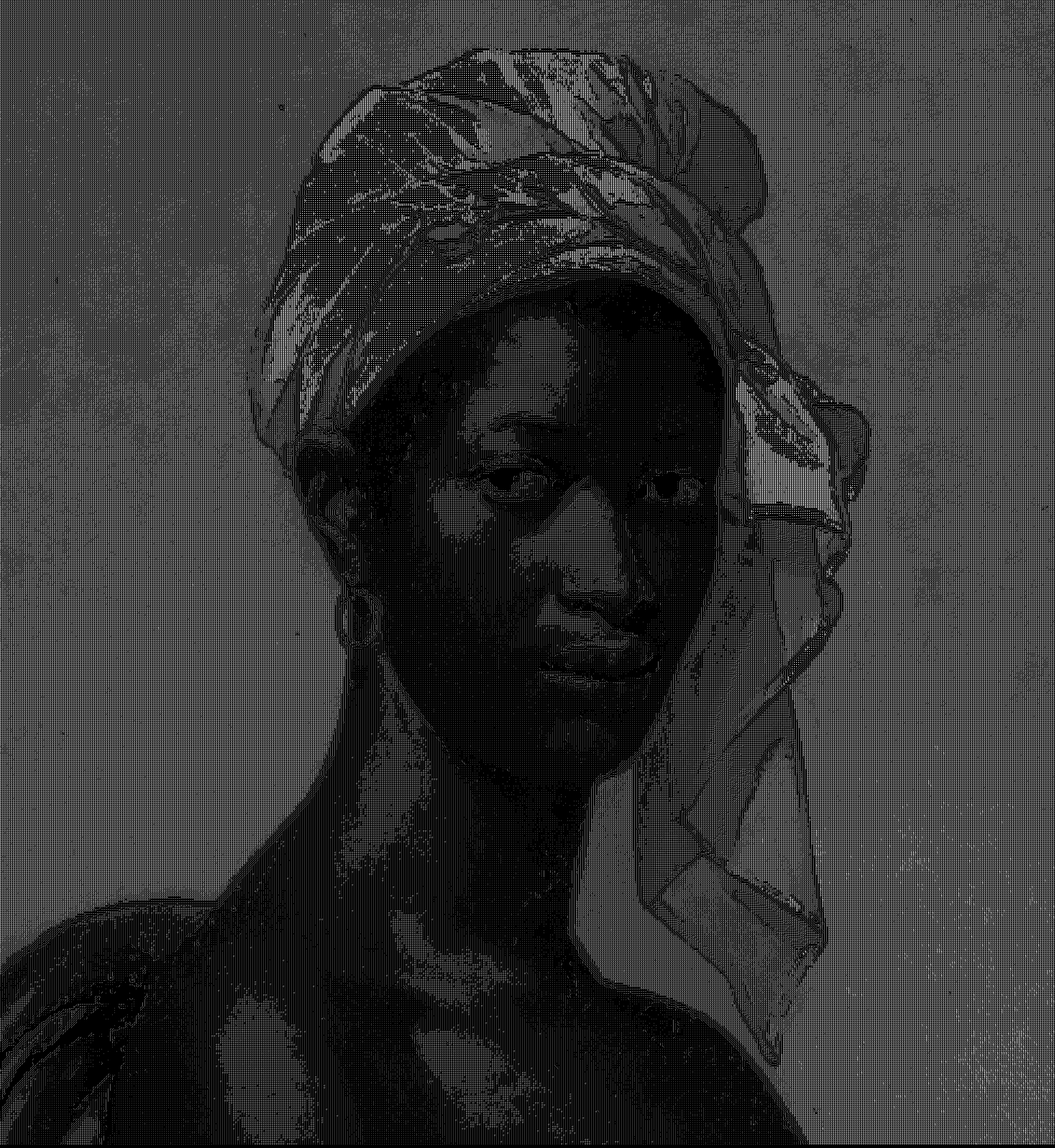
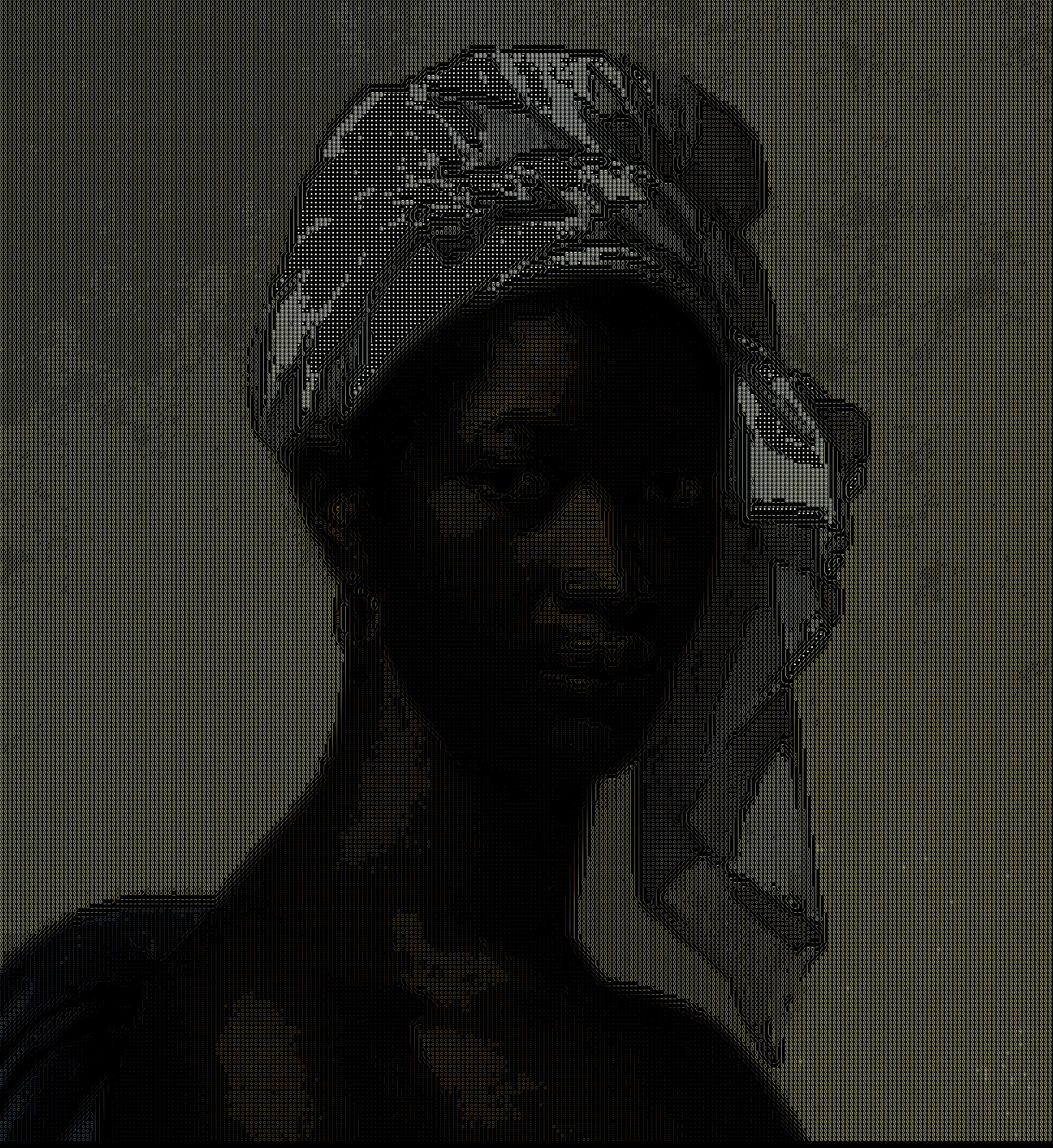
FINISHED PACKAGING!

diff --git a/ascii_img/main.go b/ascii_img/main.go
@@ -10,19 +10,15 @@ import (
 	"log"
 	"os"
 	"strings"
-	"time"
 
 	transforms "github.com/RohanPalivela/ascii_image_manip/transforms"
 	"github.com/golang/freetype"
 )
 
-// Place your image/video into the "images/" directory. Provide the filename (ex: "hi.png" with no images/) into this function.
-func Initialize(filename string, sample_size int, px_size int) [][]transforms.Pixel {
+// Place your image (future: supporting video) into the "images/" directory. Provide the filename (ex: "hi.png" with no images/) into this function. A sample size N averages every NxN space, downscaling the image by Nx.
+func Initialize(filename string, sample_size int) [][]transforms.Pixel {
 	// file_name := "portrait.jpg"
 	img_file := "Images/" + filename
-
-	fmt.Println("** BEGINNING OPERATIONS **")
-	start := time.Now()
 
 	var img image.Image
 	var bounds image.Rectangle
@@ -34,9 +30,6 @@ func Initialize(filename string, sample_size int, px_size int) [][]transforms.Pi
 		img, bounds = OpenJPEGImg(img_file)
 	}
 
-	LogOut(fmt.Sprintf("LOGGING >> Took %s to open image", time.Since(start)))
-	intermediate := time.Now()
-
 	width := bounds.Dx()
 	height := bounds.Dy()
 
@@ -47,84 +40,19 @@ func Initialize(filename string, sample_size int, px_size int) [][]transforms.Pi
 	fmt.Printf("Info: Shrinking to: %v x %v\n\n", pix_width, pix_height)
 
 	arr := InitializeArray(img, sample_size, pix_height, pix_width)
-
-	LogOut(fmt.Sprintf("LOGGING >> Took %s to make and propagate pixel info", time.Since(intermediate)))
-	intermediate = time.Now()
 
 	return arr
 }
 
-func OutputImage(arr [][]transforms.Pixel) {
-
-}
-
-func main() {
-	// CONSTANTS FOR PROGRAM
-	file_name := "portrait.jpg"
-	img_file := "Images/" + file_name
-
-	// IMPORTANT FOR IMAGE SIZES ************
-	// keeping these the same value yields an image of ~ same size
-	// for any image > 1920x1080, keep at 8x8, otherwise probably go down
-	sample_size := 4
-	px_size := 4
-
-	fmt.Println("** BEGINNING OPERATIONS **")
-	start := time.Now()
-
-	var img image.Image
-	var bounds image.Rectangle
-
-	switch img_file[strings.Index(img_file, "."):] {
-	case ".png":
-		img, bounds = OpenPNGImg(img_file)
-	case ".jpeg", ".jpg":
-		img, bounds = OpenJPEGImg(img_file)
-	}
-
-	LogOut(fmt.Sprintf("LOGGING >> Took %s to open image", time.Since(start)))
-	intermediate := time.Now()
-
-	operations := time.Now()
-
-	width := bounds.Dx()
-	height := bounds.Dy()
-
-	fmt.Printf("Info: Original Dimensions: %v x %v\n", width, height)
-
-	pix_width := width / sample_size
-	pix_height := height / sample_size
-	fmt.Printf("Info: Shrinking to: %v x %v\n\n", pix_width, pix_height)
-
-	arr := InitializeArray(img, sample_size, pix_height, pix_width)
-
-	LogOut(fmt.Sprintf("LOGGING >> Took %s to make and propagate pixel info", time.Since(intermediate)))
-	intermediate = time.Now()
-
-	// TRANSFORMATIONS**********************************************
-	// GetRunes(arr)
-	// arr = transforms.XDoG(arr)
-	// arr = transforms.DoG(arr)
-	// transforms.AsciiFilter(arr)
-	transforms.NaiveAsciiFilter(arr)
-	// arr = transforms.SobelFilter(arr, false)
-
-	// for i := range len(arr) {
-	// 	for j := range len(arr[i]) {
-	// 		fmt.Printf("%v ", arr[i][j])
-	// 	}
-	// 	fmt.Println()
-	// }
-	// fmt.Println("DONE")
-
-	// TRANSFORMATIONS**********************************************
-
-	LogOut(fmt.Sprintf("LOGGING >> CHARACTER TRANSFORMATIONS DONE: %s", time.Since(intermediate)))
-	intermediate = time.Now()
+func OutputImage(arr [][]transforms.Pixel, px_size int, color_image bool) *image.RGBA {
+	pix_width := len(arr[0])
+	pix_height := len(arr)
 
 	// BOUNDS FOR KEEPING THE IMAGE QUALITY PERFECT:
 	out_width := pix_width * px_size
 	out_height := pix_height * px_size
+
+	fmt.Printf("Output dims = %vx%v\n", out_width, out_height)
 
 	newimg := image.NewRGBA(image.Rect(0, 0, out_width, out_height))
 	draw.Draw(newimg, newimg.Bounds(), image.NewUniform(color.Black), image.Point{}, draw.Src)
@@ -133,64 +61,21 @@ func main() {
 
 	buffer := transforms.InitializeBuffer(0, px_size, out_width, out_height, px_size, newimg)
 
-	LogOut(fmt.Sprintf("LOGGING >> Did pre-processing for image drawing (blank image, created image buffer, parsed font): %s", time.Since(intermediate)))
-	intermediate = time.Now()
+	buffer.WriteArray(context, arr, color_image)
 
-	buffer.WriteArray(context, arr)
-
-	LogOut(fmt.Sprintf("LOGGING >> Took %s to draw pixels in buffer", time.Since(intermediate)))
-	intermediate = time.Now()
-
-	op_end := time.Since(operations)
-
-	outFile, err := os.Create("out.png")
-	if err != nil {
-		log.Println(err)
-		os.Exit(1)
-	}
-
-	defer outFile.Close()
-
-	err = png.Encode(outFile, newimg)
-
-	if err != nil {
-		log.Println(err)
-		os.Exit(1)
-	}
-
-	LogOut(fmt.Sprintf("LOGGING >> Time to encode output image: %s", time.Since(intermediate)))
-
-	LogOut(fmt.Sprintf("LOGGING >> Total execution time: %s", time.Since(start)))
-	LogOut(fmt.Sprintf("LOGGING >> Took %s for non-(encode/decode) operations", op_end))
-	fmt.Println("Created new image")
-	intermediate = time.Now()
+	return newimg
 }
 
-// *****************
-// LOGGING FXNS
-// *****************
-func LogOut(message string) {
-	size := len(message)
-
-	var sb strings.Builder
-	for i := 0; i < size+4; i++ {
-		sb.WriteRune('*')
-	}
-	fmt.Println(sb.String())
-	fmt.Println("* " + message + " *")
-	fmt.Println(sb.String() + "\n")
-}
-
-func WriteToTXT(height int, width int, mapping map[int]rune, arr [][]transforms.Pixel) {
+func WriteToTXT(arr [][]transforms.Pixel) {
 	// .txt output
 	var sb strings.Builder
-	for i := range height {
-		for j := range width {
+	for i := range len(arr) {
+		for j := range len(arr[i]) {
 			cur := arr[i][j]
 			sb.WriteRune(cur.Character)
-			sb.WriteString(" ")
+			sb.WriteRune(' ')
 		}
-		sb.WriteString("\n")
+		sb.WriteRune('\n')
 	}
 
 	file, err := os.Create("output.txt")
@@ -310,7 +195,7 @@ func InitializeContext(newimg draw.Image, px_size float64) (cont *freetype.Conte
 	c.SetDPI(72)
 	c.SetFont(f)
 	c.SetFontSize(px_size)
-	c.SetClip(newimg.Bounds())
+	c.SetClip((newimg).Bounds())
 	c.SetDst(newimg)
 	c.SetSrc(image.White) // default value ig
 

diff --git a/transforms/AsciiImageBuffer.go b/transforms/AsciiImageBuffer.go
@@ -23,7 +23,7 @@ func InitializeBuffer(x int, y int, width int, height int, letter_size int, img 
 
 /* Writes rune to the Context provided. AsciiImageBuffer keeps track of the current position, does wrapping for you.
  */
-func (buffer *AsciiImageBuffer) WriteRune(context *freetype.Context, c color.Color, r rune) error {
+func (buffer *AsciiImageBuffer) WriteRune(context *freetype.Context, c color.Color, r rune, to_color bool) error {
 	if buffer.x >= buffer.width {
 		buffer.x = 0
 		buffer.y += buffer.letter_size
@@ -44,7 +44,10 @@ func (buffer *AsciiImageBuffer) WriteRune(context *freetype.Context, c color.Col
 		return nil
 	}
 
-	// context.SetSrc(&image.Uniform{c})
+	if to_color {
+		context.SetSrc(&image.Uniform{c})
+	}
+
 	_, err := context.DrawString(string(r), fixed.P(buffer.x, buffer.y))
 
 	if err != nil {
@@ -56,13 +59,13 @@ func (buffer *AsciiImageBuffer) WriteRune(context *freetype.Context, c color.Col
 	return nil
 }
 
-/* Writes array to the Context provided. AsciiImageBuffer keeps track of the current position, does wrapping for you.
+/* Writes array to the Context provided. AsciiImageBuffer keeps track of the current position, does wrapping for you. Provide true
  */
-func (buffer *AsciiImageBuffer) WriteArray(context *freetype.Context, arr [][]Pixel) {
+func (buffer *AsciiImageBuffer) WriteArray(context *freetype.Context, arr [][]Pixel, to_color bool) {
 	for i := range len(arr) {
 		for j := range len(arr[i]) {
 			cur := &arr[i][j]
-			if err := buffer.WriteRune(context, color.RGBA{cur.R, cur.G, cur.B, cur.A}, cur.Character); err != nil {
+			if err := buffer.WriteRune(context, color.RGBA{cur.R, cur.G, cur.B, cur.A}, cur.Character, to_color); err != nil {
 				fmt.Println(err.Error())
 				break
 			}

diff --git a/main.go b/main.go
@@ -16,16 +16,17 @@ import (
 	"github.com/golang/freetype"
 )
 
-func main() {
+// function that performs rudimentary time benchmarking
+func benchmark() {
 	// CONSTANTS FOR PROGRAM
-	file_name := "portrait.jpg"
+	file_name := "mountain.jpg"
 	img_file := "Images/" + file_name
 
 	// IMPORTANT FOR IMAGE SIZES ************
 	// keeping these the same value yields an image of ~ same size
 	// for any image > 1920x1080, keep at 8x8, otherwise probably go down
-	sample_size := 4
-	px_size := 4
+	sample_size := 8
+	px_size := 8
 
 	fmt.Println("** BEGINNING OPERATIONS **")
 	start := time.Now()
@@ -62,9 +63,9 @@ func main() {
 	// TRANSFORMATIONS**********************************************
 	// GetRunes(arr)
 	// arr = transforms.XDoG(arr)
-	// arr = transforms.DoG(arr)
-	// transforms.AsciiFilter(arr)
-	transforms.NaiveAsciiFilter(arr)
+	// arr = transforms.DoG(arr, 1, 15)
+	transforms.AsciiFilter(arr)
+	// transforms.NaiveAsciiFilter(arr)
 	// arr = transforms.SobelFilter(arr, false)
 
 	// for i := range len(arr) {
@@ -94,7 +95,7 @@ func main() {
 	LogOut(fmt.Sprintf("LOGGING >> Did pre-processing for image drawing (blank image, created image buffer, parsed font): %s", time.Since(intermediate)))
 	intermediate = time.Now()
 
-	buffer.WriteArray(context, arr)
+	buffer.WriteArray(context, arr, true)
 
 	LogOut(fmt.Sprintf("LOGGING >> Took %s to draw pixels in buffer", time.Since(intermediate)))
 	intermediate = time.Now()

diff --git a/transforms/DoG.go b/transforms/DoG.go
@@ -2,11 +2,23 @@ package transforms
 
 import (
 	"math"
+	"sync"
 )
 
-func DoG(img [][]Pixel) [][]Pixel {
-	blur1 := GaussianBlur1D(img, 5)
-	blur2 := GaussianBlur1D(img, 11)
+// blur_rad_1 < blur_rad_2
+func DoG(img [][]Pixel, blur_rad_1 int, blur_rad_2 int) [][]Pixel {
+	var group sync.WaitGroup
+	var blur1, blur2 [][]Pixel
+
+	group.Go(func() {
+		blur1 = GaussianBlur1D(img, blur_rad_1)
+	})
+
+	group.Go(func() {
+		blur2 = GaussianBlur1D(img, blur_rad_2)
+	})
+
+	group.Wait()
 
 	result := make([][]Pixel, len(blur1))
 	for i := range len(blur1) {
@@ -22,13 +34,7 @@ func DoG(img [][]Pixel) [][]Pixel {
 
 			finRes := max(0, math.Abs(pix1Lum-pix2Lum)) // 0-1 range
 
-			if finRes >= 0.04 {
-				finRes = 1
-			} else {
-				finRes = 0
-			}
-
-			pix_val := (uint8)(finRes * 255)
+			pix_val := min(255, 10+(uint8)(finRes*255))
 			result[i][j] = Pixel{
 				R: pix_val,
 				G: pix_val,

diff --git a/transforms/SobelFilter.go b/transforms/SobelFilter.go
@@ -104,10 +104,10 @@ func SobelFilter(arr [][]Pixel, add_character bool) [][]Pixel {
 	divisions := 10 // 8 threads ? ish
 	var group sync.WaitGroup
 
-	incr := len(arr) / divisions
+	incr := len(arr[0]) / divisions
 
 	// vertical partitions
-	for i := 0; i < len(arr); i += incr {
+	for i := 0; i < len(arr[0]); i += incr {
 		start := CoordPair{
 			x: i,
 			y: 0,

diff --git a/transforms/AsciiFilter.go b/transforms/AsciiFilter.go
@@ -44,7 +44,7 @@ func AsciiFilter(arr [][]Pixel) {
 
 	LuminFilter(arr, mapping)
 
-	edged := DoG(arr)
+	edged := DoG(arr, 1, 15)
 
 	sobel := SobelFilter(edged, true)
 
